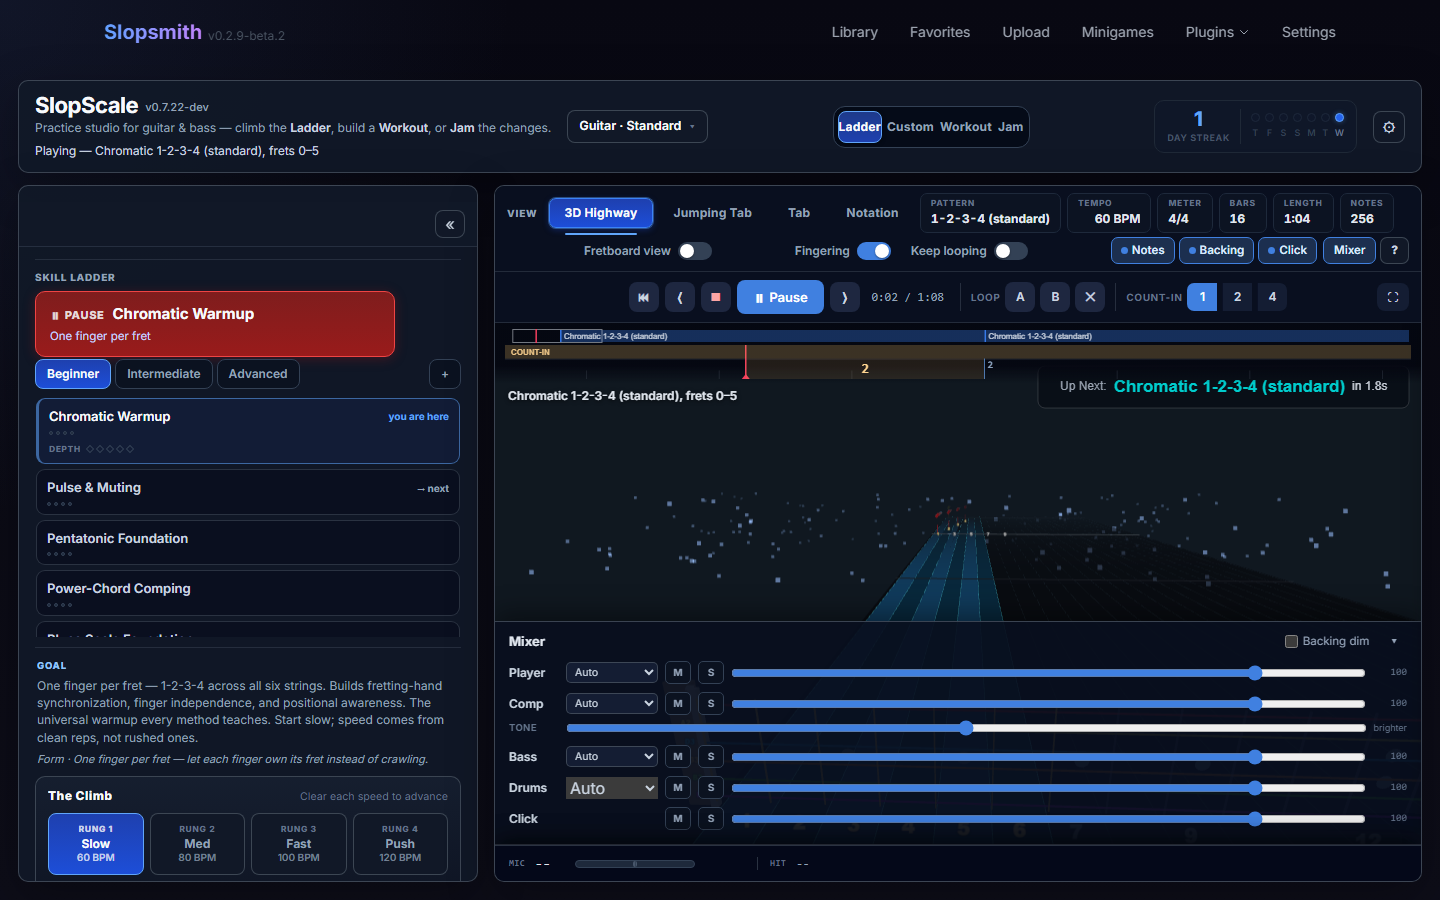
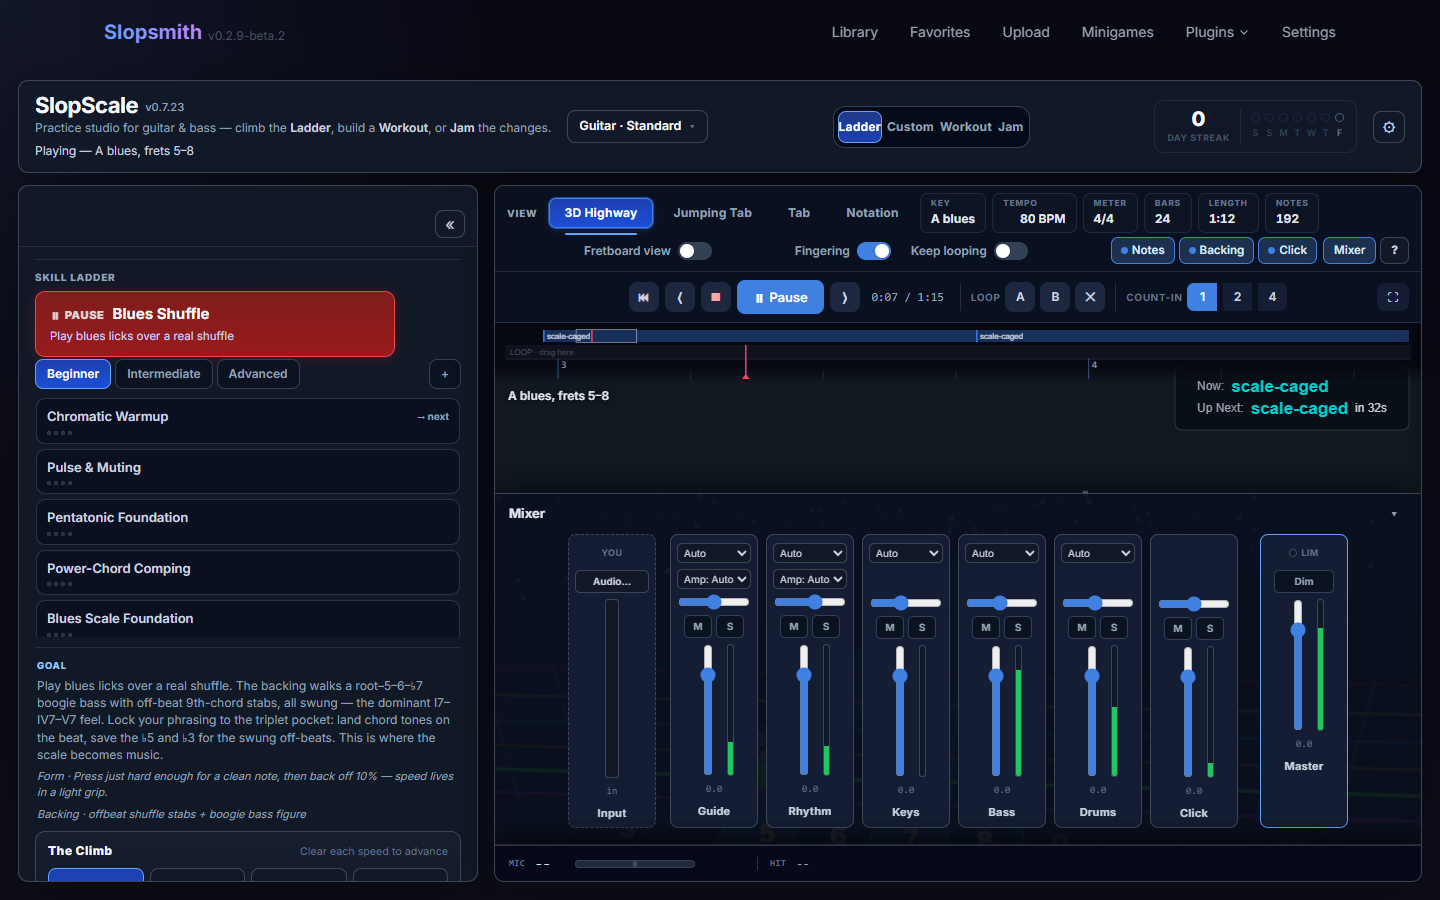
chore(release): v0.7.23 — version bump, README v0.7.23 section, refreshed mixer/packs shots
- plugin.json + SLOPSCALE_VERSION -> 0.7.23 (kept equal per the version-badge rule)
- README: the "Plug into an amp — and the community wrote a ladder" section
  (amp inserts + DI guide voice, the Fingerstyle pack with the Pack-manager
  enable note, the Herta Chug, the kinder beginner rung, the FluidR3 swap +
  pedalboard thumbnail), plus the packs/mixer caption + library-line updates
- docs/images/mixer.png retaken (the new Amp row, live meters mid-playback);
  docs/images/packs.png retaken (current console)

Final gate: 18/18 smoke on the bumped tree.

diff --git a/screen.js b/screen.js
@@ -48,7 +48,7 @@
   // a plugin's own version into its screen (note_detect hardcodes `_ND_VERSION`
   // the same way), so this is the display mirror of plugin.json's "version".
   // BUMP THIS WHENEVER plugin.json's version changes (release checklist).
-  const SLOPSCALE_VERSION = '0.7.23-dev';
+  const SLOPSCALE_VERSION = '0.7.23';
 
   // ===========================================================================
   // §1 · CONSTANTS & MUSIC-THEORY DATA

diff --git a/README.md b/README.md
@@ -67,7 +67,7 @@ The **Ladder** picker grew from a handful of routines into **~80**, grouped into
 </p>
 
 - **8 Concept ladders** — one skill, sequenced easy → mastery: **Triads, Arpeggios, Guide Tones, Fretboard Freedom, Expression, Rhythm, Picking, Legato.** Each is a vertical climb through a single idea (Fretboard: one box → CAGED links → position shifts → 3NPS → whole-neck map) rather than another grab-bag.
-- **Deeper genre packs** — **Blues** (box → shuffle → bends → call-and-response → mixing major/minor), **Rock** (power + backbeat → pentatonic → lead vocab → pedal riffs → ♭VII changes), **Country** (major pentatonic → cowboy changes → double-stops → chicken pickin' → pedal bends → train beat), alongside the existing **Metal / djent** pack — a genre ladder is the *application* layer: take the grammar into a style's accent.
+- **Deeper genre packs** — **Blues** (box → shuffle → bends → call-and-response → mixing major/minor), **Rock** (power + backbeat → pentatonic → lead vocab → pedal riffs → ♭VII changes), **Country** (major pentatonic → cowboy changes → double-stops → chicken pickin' → pedal bends → train beat), alongside the existing **Metal / djent** pack and the community-seeded **Fingerstyle** pack (p-i-m-a + the spider trio) — a genre ladder is the *application* layer: take the grammar into a style's accent.
 - **A bass-native ladder** — **Bass Foundations** on a 4-string, groove-first the way bass is actually learned: root–5th–octave → octave groove → dead-note pocket → walking bass → slap & pop. The picker is now **instrument-aware** — guitar-only shapes hide on bass, and the reverse.
 - **Own your time** — the Rhythm ladder runs subdivisions → the 16th pocket → swing → displacement → **odd meters** → an **"Over the Barline"** metric-superimposition capstone, plus a **herta** burst drill in the Picking ladder. And Division now **follows your meter** — a quarter-note pick in 7/8 auto-bumps to the felt eighth pulse, with a caption that *names* the cross-pulse instead of letting it feel like a bug.
 
@@ -129,6 +129,16 @@ The biggest batch yet. The **Workout** pillar grew from "a timer over your drill
 
 **And some polish** — the Setup/Play pill became a tidy **`«` collapse icon** that widens the stage (and now scales cleanly across window sizes), the inspector panels **slide** instead of snapping, and a fretboard-render regression is fixed.
 
+### Plug into an amp — and the community wrote a ladder <sub><i>(new in v0.7.23)</i></sub>
+
+The guide track became a real guitar through a real rig, the first community-contributed pack landed, and the most-requested djent figure got built *right*:
+
+- **A real guitar guide voice, through an amp.** The line you play along to is now a **sampled electric guitar (DI)** by default — and the Mixer's Guide and Rhythm strips grew an **Amp** row: **Clean / Overdrive / Metal**, three designed amp+cab presets that work across every exercise, Workout and Jam. Auto puts the DI through the Clean amp so it always sounds like an instrument, not a beep; pick Metal and your djent drills finally *sound* like djent. (Acoustic styles keep their steel-string, and bass keeps its bass.)
+- **The Fingerstyle pack** — the first **Acoustic & Fingerstyle** band, seeded by a beta tester's own teacher-handed warmup: name the picking hand (**p-i-m-a Foundation**, broken chords over open grips with honest per-note finger letters), then the three **spider** rungs — a two-string crossing drill where every note swaps strings and everything rings, graded *adjacent strings → a skip → full width* ("if you like pain"). Straight from the Discord thread to the Ladder — switch it on from the `+` Pack manager (it's an opt-in pack, like the genre ladders).
+- **The Herta Chug.** The relentless modern-djent figure — a sixteenth, two thirty-seconds, a sixteenth, repeated with no gap so the accent walks across the beat (a 3-over-2) — verified against the drum-transcription literature, with the Push tier at the figure's canonical tempo. The drummers call the cell a *herta*; now the Metal ladder teaches it on guitar, strict alternate, palm-muted, honest.
+- **A kinder first rung.** Real-beginner feedback round two: the Chromatic Warmup now enters at **quarter notes** (one clean note per click — a bar is exactly one string), the count-in's subdivision ticks became **opt-in**, and the sixteenth-note version moved to the Picking band as its own *Chromatic Sixteenths* rung. Bonus: this hunt uncovered and fixed a long-silent bug that had pinned the warmup's up-the-neck variations to one spot.
+- **A cleanly-licensed backing band.** Every bundled instrument sample — melodic voices and drums — now comes from one clearly-MIT soundfont, with a provenance README in the repo. And the plugin ships a proper **thumbnail + description** for the host's upcoming pedalboard Plugins page.
+
 ## Highlights
 
 - **Jam is a mirror, not a judge** — play along over a live backing band while the fretboard strip lights up the chord/guide tones to reach for. No score, no rank — a sandbox to *apply* what you drilled, not a track to mimic
@@ -163,8 +173,8 @@ A docked **live fretboard strip** sits under the Tab and Notation views (togglea
 Playback is fully contained in the plugin (its own clock, Web Audio graph, and pitch tracker). The signal path is **per-track buses → a master safety limiter → output**, so stacked notes stay clean and normalised — no clipping, no surprise full-volume hits.
 
 <p align="center">
-  <img src="docs/images/mixer.png" width="820" alt="The live Mixer slid up over the 3D Highway — per-bus faders with mute/solo, instrument pickers, and a Backing dim.">
-  <br><sub><i>The live Mixer (<code>M</code>) — balance or mute the practice voice, bass, comp, drums and click, swap instruments, or dim the backing, all while you play.</i></sub>
+  <img src="docs/images/mixer.png" width="820" alt="The live Mixer slid up over the 3D Highway — per-bus faders with mute/solo, instrument pickers, an Amp row (Clean / Overdrive / Metal) on the Guide and Rhythm strips, and a Backing dim.">
+  <br><sub><i>The live Mixer (<code>M</code>) — balance or mute the practice voice, bass, comp, drums and click, swap instruments, pick an <b>amp</b> (Clean / Overdrive / Metal) for the guide and rhythm guitars, or dim the backing, all while you play.</i></sub>
 </p>
 
 - **Practice voice** — sampled, at the actual string/fret pitches; the oscillator voice is the fallback so you're never left silent on a cold load
@@ -190,7 +200,7 @@ Dial in anything — 12 keys, 25+ scales, any tuning, any meter, any feel — or
 30–260 BPM · 4/4, 3/4, 6/8, 7/8 (2+2+3 or 3+2+2), 5/4 · quarter / eighth / sixteenth / triplet subdivisions · straight / swing / shuffle feel · count-in None / 1 / 2 / 4 bars.
 
 ### Practice types
-Scale patterns · chord-scales (mode-of-the-moment or chord-tone emphasis) · diatonic arpeggios · progression arpeggios · sweep arpeggios (HOPO turnaround) · chromatic warmups · guide tones · and a deep **technique/vocabulary** library (legato, bends, vibrato, scale in 3rds/6ths, call-and-response, tremolo, tapping, pedal point, string skipping, position shifts, rhythmic displacement, chromatic enclosures, bebop scale, arpeggio inversions, walking bass, hybrid picking, triadic pairs, pentatonic superimposition, shell voicings, octave displacement, the metal pedal-riff / gallop / twin-lead primitives, **strumming / comping**, and the **bass groove set** — root–5th–octave, octave groove, dead-note pocket, slap & pop, right-hand technique).
+Scale patterns · chord-scales (mode-of-the-moment or chord-tone emphasis) · diatonic arpeggios · progression arpeggios · sweep arpeggios (HOPO turnaround) · chromatic warmups · guide tones · and a deep **technique/vocabulary** library (legato, bends, vibrato, scale in 3rds/6ths, call-and-response, tremolo, tapping, pedal point, string skipping, position shifts, rhythmic displacement, chromatic enclosures, bebop scale, arpeggio inversions, walking bass, hybrid picking, triadic pairs, pentatonic superimposition, shell voicings, octave displacement, the metal pedal-riff / gallop / herta-chug / twin-lead primitives, **strumming / comping**, the **fingerstyle set** — p-i-m-a broken chords + the two-string spider, and the **bass groove set** — root–5th–octave, octave groove, dead-note pocket, slap & pop, right-hand technique).
 
 ### Fretboard systems
 CAGED position (auto fret-window per key + shape) · CAGED single-shape (strict-ascend or closest-position) · 3-notes-per-string (seven modal positions) · open position · manual position box · single-string run · full-neck map. Shapes are **degree-driven** with a no-unison guarantee — a run never sounds the same pitch twice across strings.